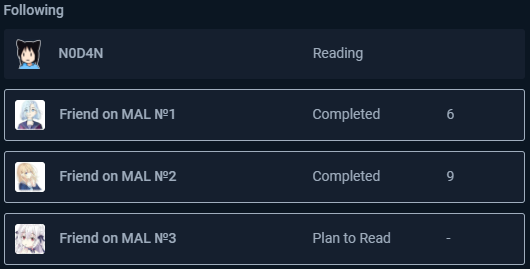
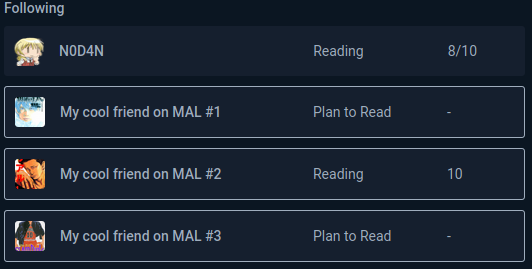
Update image to look more close to real world sample. Add LICENSE notice to the end of README

diff --git a/README.md b/README.md
@@ -26,3 +26,6 @@ Names were changed, in a browser your friends usernames names will be displayed 
 
 ## DISCLAIMER
 AniMALFriendsScores is not affiliated with MyAnimeList.net or Anilist.co
+
+## LICENSE
+AniMALFriendsScores uses MIT license. See LICENSE file for more details.
